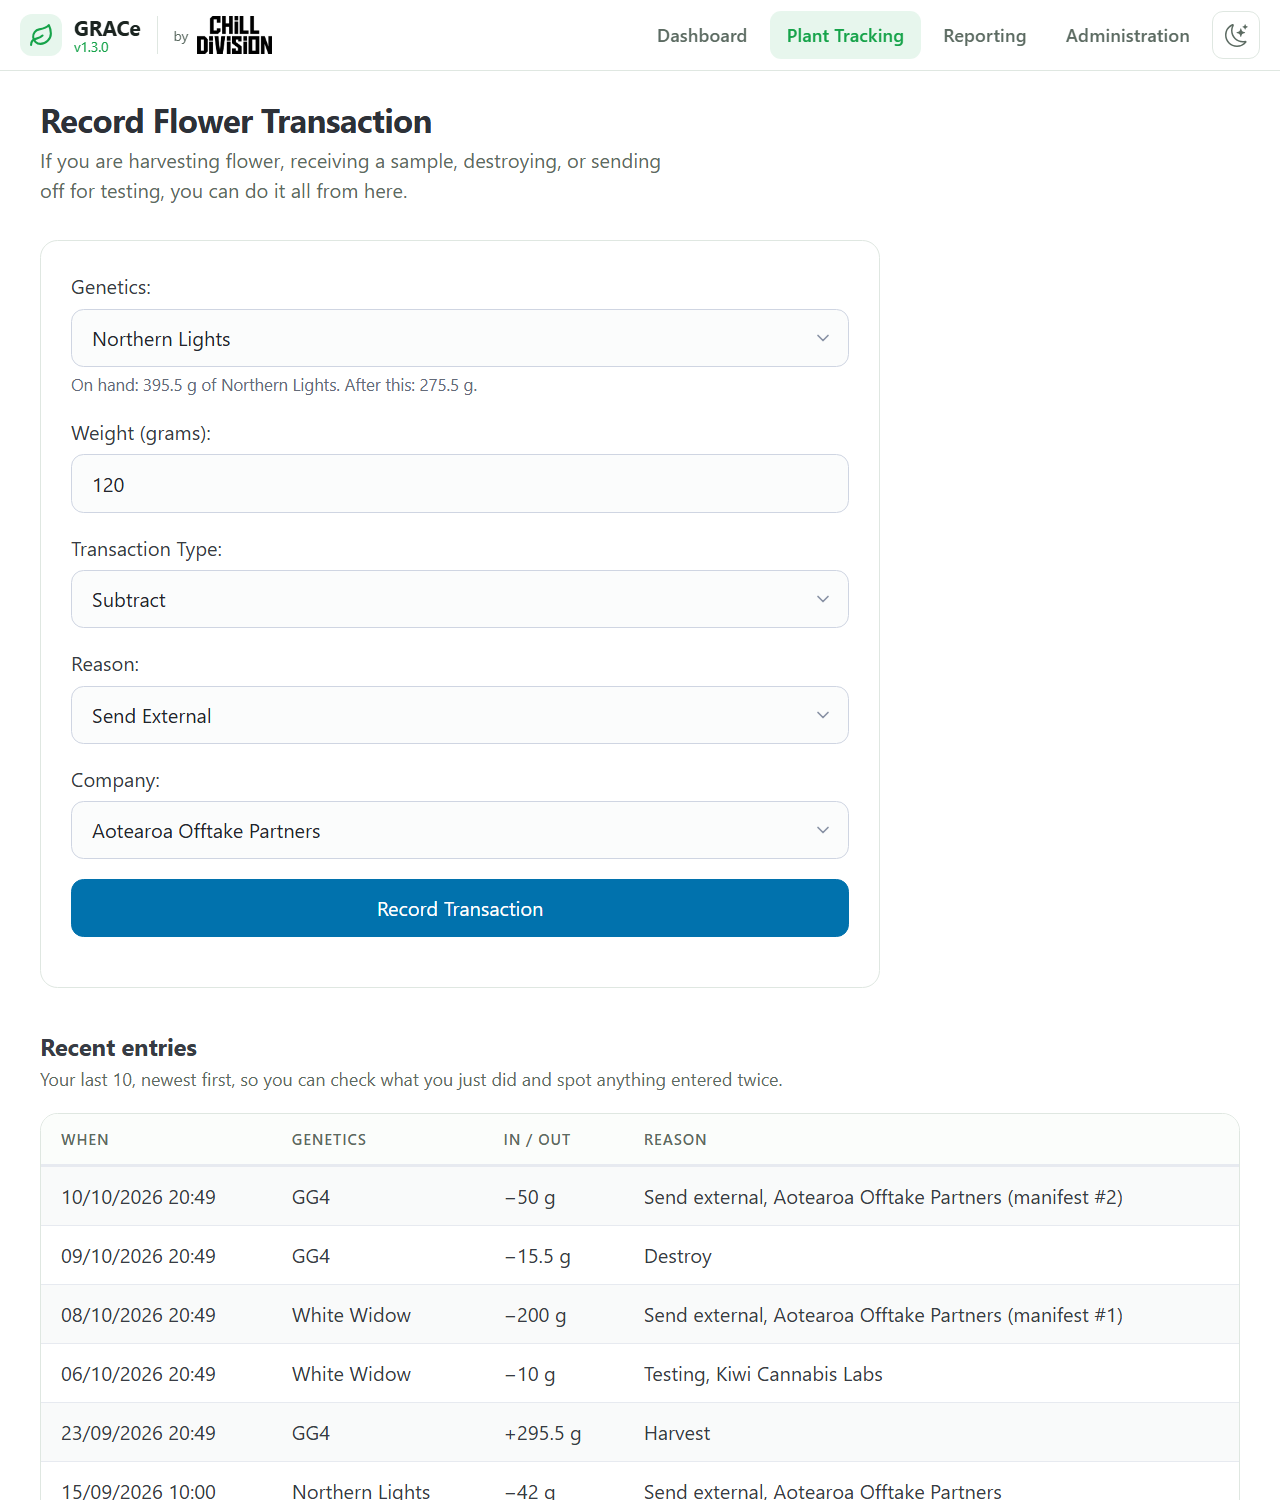
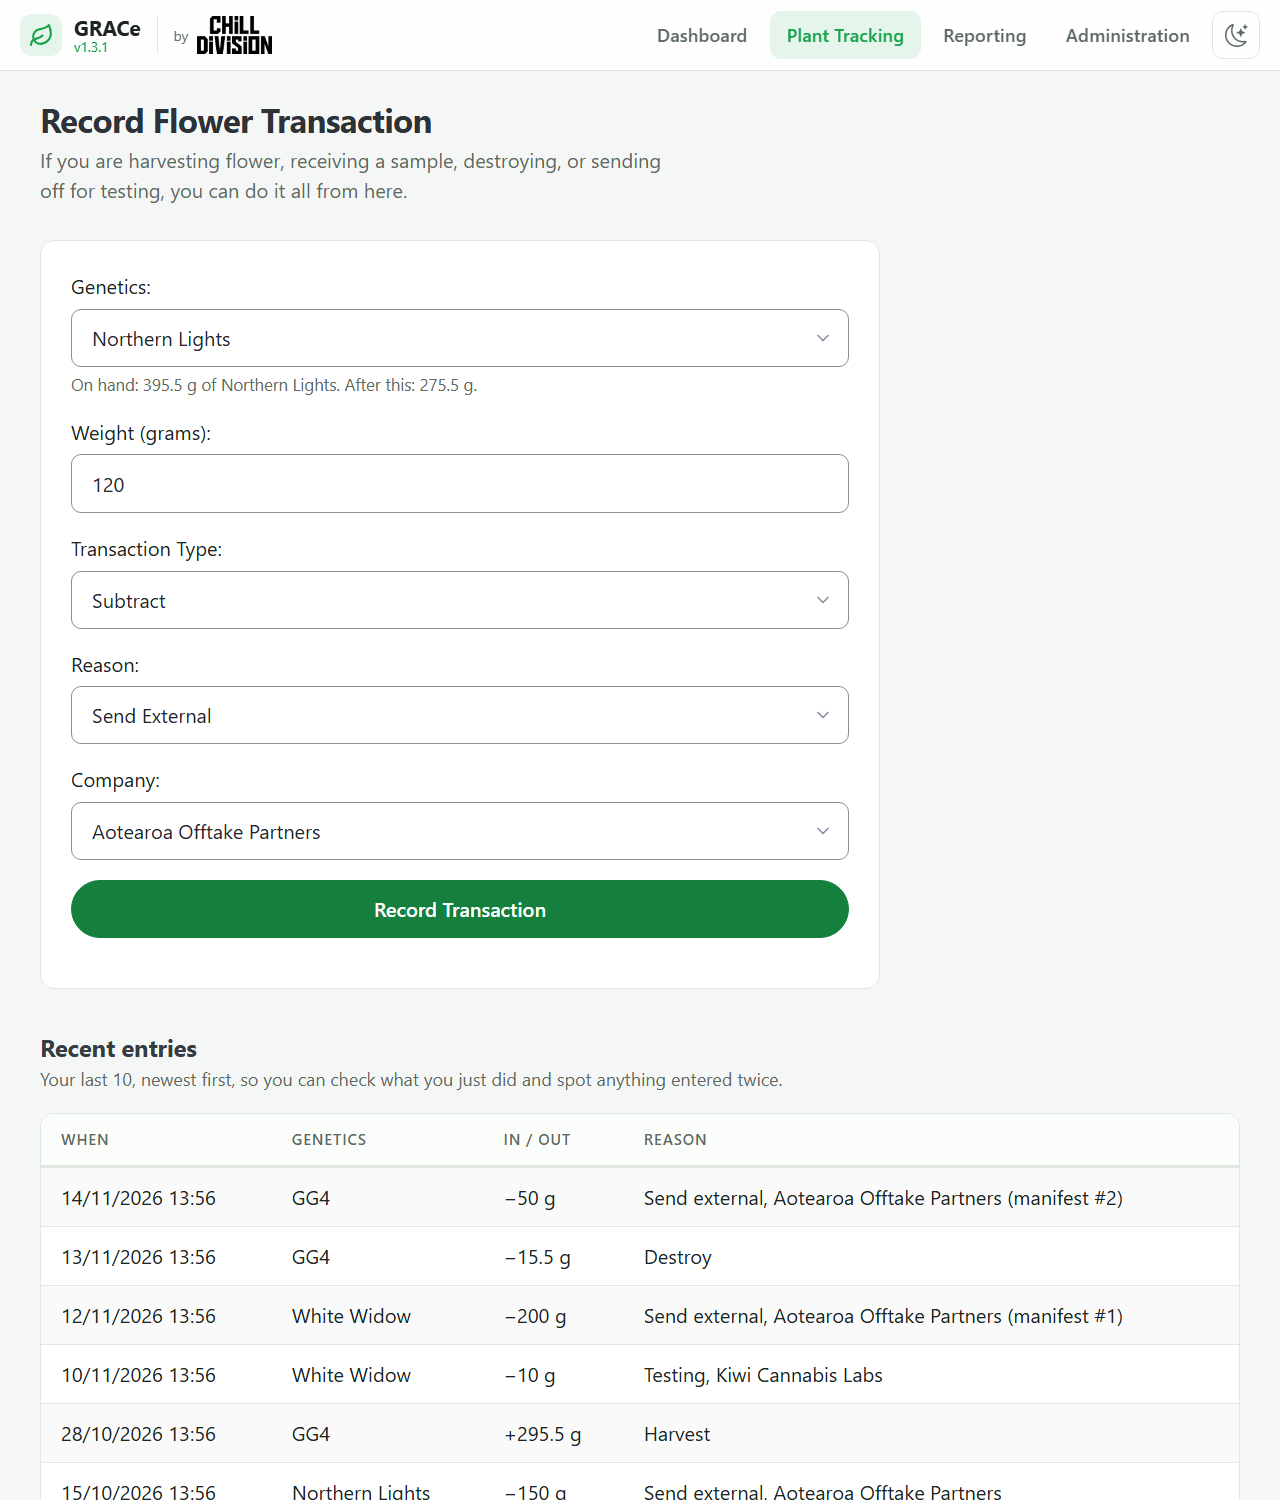
Release 1.3.1: GRACe's colours in the light theme, brand-style buttons
Bumps the version to 1.3.1 in config.yaml, nav.php, the changelog and
GRACE_ASSET_VERSION, so browsers fetch the new stylesheet and scripts,
and adds the changelog entry. Every guide and README screenshot is
retaken, since they all showed the light theme in Pico's blue.

diff --git a/grace_addon/files/general/www/public/nav.php b/grace_addon/files/general/www/public/nav.php
@@ -27,7 +27,7 @@ $navSections = [
                 </span>
                 <span class="nav-brand-text">
                     <strong>GRACe</strong>
-                    <span class="nav-brand-sub"><small>v1.3.0</small></span>
+                    <span class="nav-brand-sub"><small>v1.3.1</small></span>
                 </span>
                 <span class="nav-brand-maker">
                     <span class="nav-brand-by">by</span>

diff --git a/grace_addon/files/general/www/public/header.php b/grace_addon/files/general/www/public/header.php
@@ -7,7 +7,7 @@
  *   $useJquery  - set true on pages that use the jQuery document manager
  */
 if (!defined('GRACE_ASSET_VERSION')) {
-    define('GRACE_ASSET_VERSION', '1.3.0');
+    define('GRACE_ASSET_VERSION', '1.3.1');
 }
 $pageTitle = $pageTitle ?? 'GRACe';
 ?>

diff --git a/grace_addon/CHANGELOG.md b/grace_addon/CHANGELOG.md
@@ -1,3 +1,8 @@
+## [1.3.1] - 2026-11-15
+
+### Minor bug fixes and reliability improvements
+- Fixed UI inconsistencies and ensured accurate reproduction across both dark and light-theme viewing, for desktop, tablet and mobile.
+
 ## [1.3.0] - 2026-10-11
 
 ### What's new
